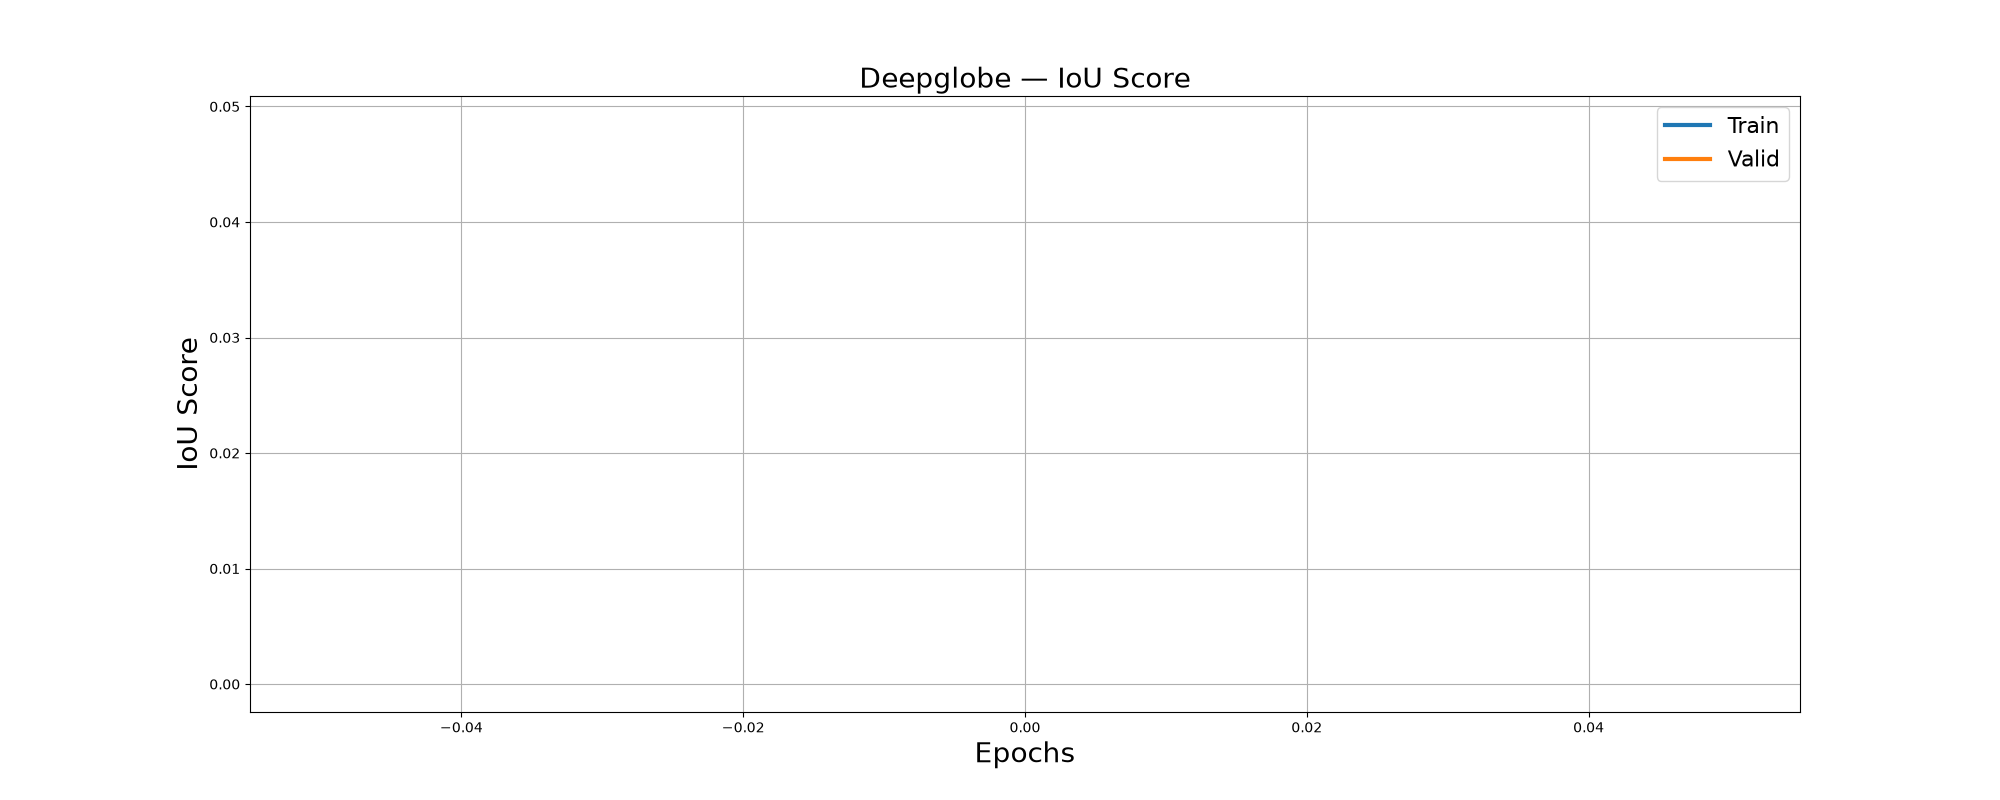
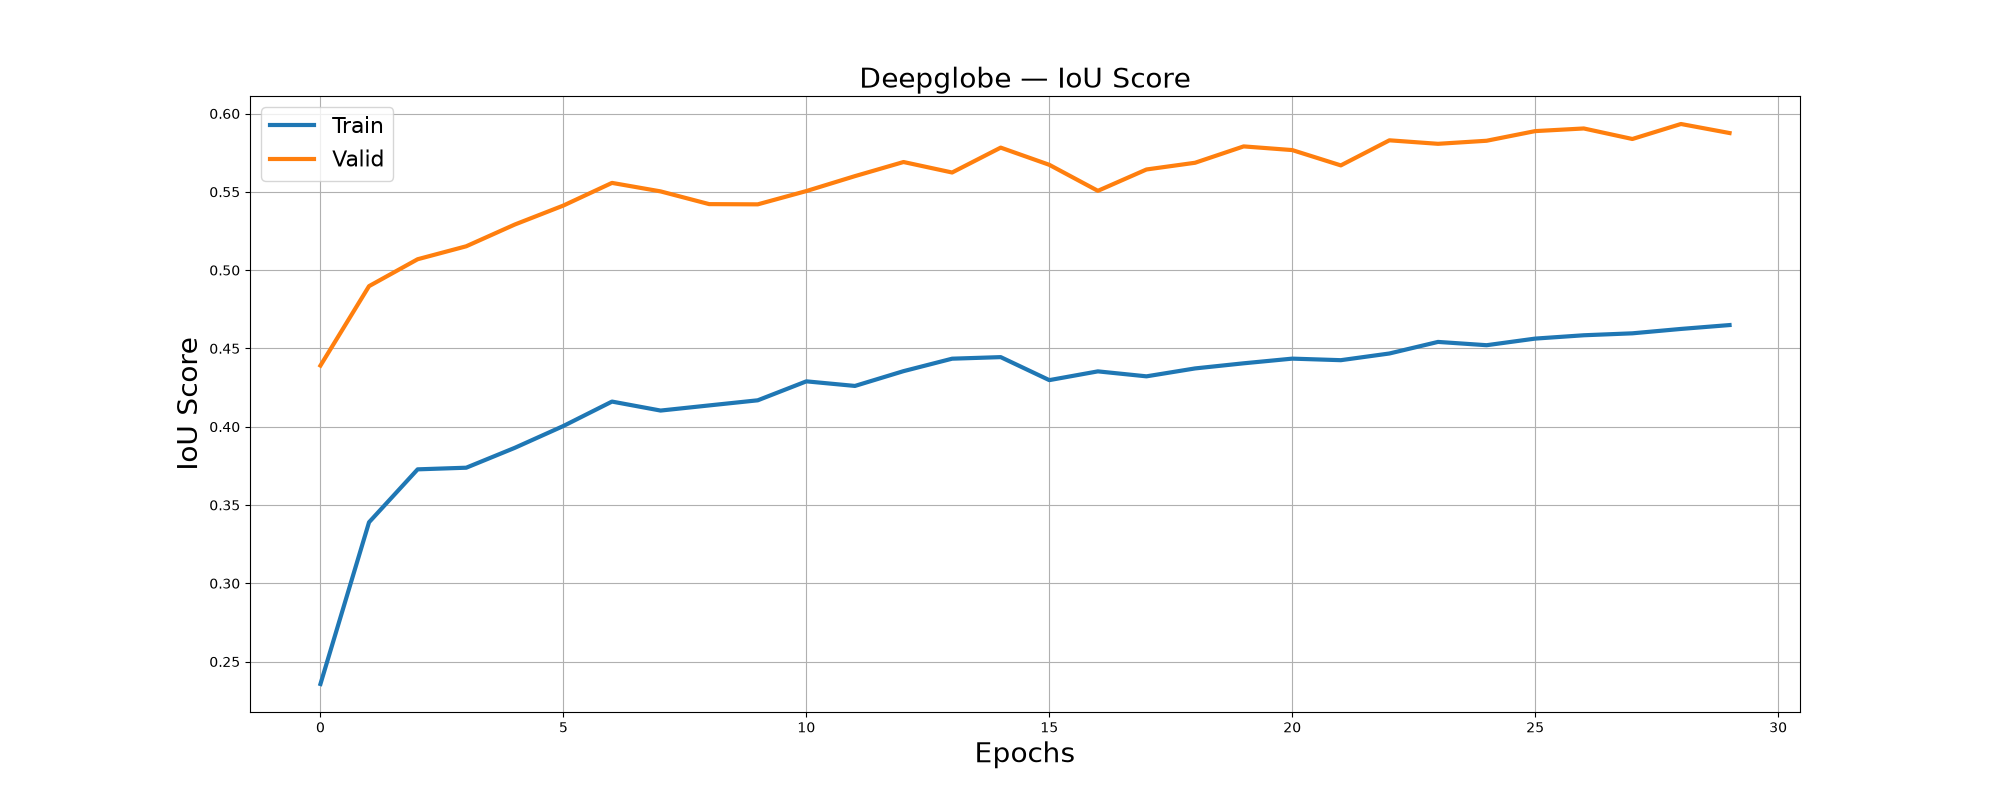
feat: train DeepLabV3+ on DeepGlobe for 30 epochs (Val IoU 59.33%), add milestone checkpoints and drop_last fix
- Train satellite road model on full DeepGlobe dataset (5293 images) with RTX 5060 CUDA
- Best Val IoU: 59.33% at epoch 29 (surpasses aerial model 48.72%)
- Add drop_last=True to DataLoader to prevent ASPP BatchNorm crash on last incomplete batch
- Add milestone checkpoint saving every 5 epochs and on early stopping
- Update training plots (IoU and loss curves for 30 epochs)

diff --git a/train.py b/train.py
@@ -295,6 +295,7 @@ def main():
         train_dataset,
         batch_size=cfg.train.batch_size,
         shuffle=True,
+        drop_last=True,
         num_workers=cfg.train.num_workers,
     )
     valid_loader = DataLoader(
@@ -401,29 +402,42 @@ def main():
         lr_scheduler.step()
 
         # ---- Checkpointing ----
+        checkpoint = {
+            'epoch': epoch,
+            'model_state_dict': model.state_dict(),
+            'optimizer_state_dict': optimizer.state_dict(),
+            'best_iou': best_iou_score,
+            'valid_iou': valid_iou,
+            'config': {
+                'encoder': cfg.model.encoder,
+                'decoder': cfg.model.decoder,
+                'classes': cfg.model.classes,
+                'task': cfg.data.task,
+            },
+        }
+
         if valid_iou > best_iou_score or epoch == 0:
             if valid_iou > best_iou_score:
                 best_iou_score = valid_iou
             epochs_no_improve = 0
-            checkpoint = {
-                'epoch': epoch,
-                'model_state_dict': model.state_dict(),
-                'optimizer_state_dict': optimizer.state_dict(),
-                'best_iou': best_iou_score,
-                'config': {
-                    'encoder': cfg.model.encoder,
-                    'decoder': cfg.model.decoder,
-                    'classes': cfg.model.classes,
-                    'task': cfg.data.task,
-                },
-            }
+            checkpoint['best_iou'] = best_iou_score
             torch.save(checkpoint, cfg.best_model_path)
             print(f"  [+] Model saved! Best IoU: {best_iou_score:.4f}")
         else:
             epochs_no_improve += 1
             if epochs_no_improve >= cfg.train.patience:
                 print(f"\n[!] Early stopping triggered after {cfg.train.patience} epochs without improvement.")
+                # Save final state before exit
+                milestone_path = os.path.join(cfg.weights_dir, f"{cfg.data.task}_model_{epoch+1}_epochs.pth")
+                torch.save(checkpoint, milestone_path)
+                print(f"  [+] Final milestone checkpoint saved: {milestone_path}")
                 break
+
+        # Save milestone checkpoint every 5 epochs or on the last epoch
+        if (epoch + 1) % 5 == 0 or (epoch + 1) == cfg.train.epochs:
+            milestone_path = os.path.join(cfg.weights_dir, f"{cfg.data.task}_model_{epoch+1}_epochs.pth")
+            torch.save(checkpoint, milestone_path)
+            print(f"  [+] Milestone checkpoint saved: {milestone_path}")
 
     writer.close()
     print(f"\nTraining complete! Best IoU: {best_iou_score:.4f}")
